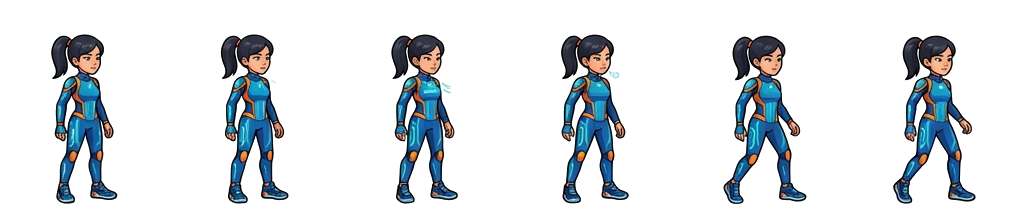
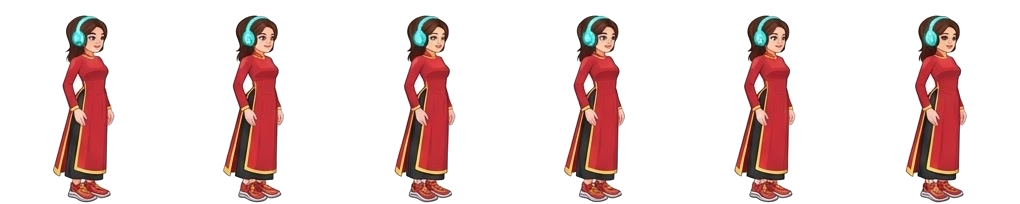
feat: update hanoi mascot

diff --git a/scripts/split_hanoi_mascot.py b/scripts/split_hanoi_mascot.py
@@ -1,0 +1,102 @@
+import os
+from PIL import Image
+
+def split_hanoi_mascot_for_gender(gender):
+    if gender == 'male':
+        input_path = "public/assets/images/hanoi/mascot/mascot_sheet.png"
+    else:
+        input_path = "public/assets/images/hanoi/mascot/mascot_sheet_female.png"
+        
+    if not os.path.exists(input_path):
+        print(f"Error: Input file {input_path} not found.")
+        return False
+        
+    img = Image.open(input_path).convert('RGBA')
+    img_w, img_h = img.size
+    
+    # Grid parameters
+    frame_w = 170
+    frame_h = 204
+    cols = 6
+    rows = 5
+    
+    # We want to map each row of the grid to the corresponding action file
+    actions = ['stand', 'run', 'slip', 'fly', 'beaten']
+    
+    # Background color to make transparent: (254, 254, 254)
+    # We use floodfill starting from the boundaries of each frame cell
+    def remove_bg(cell):
+        w, h = cell.size
+        pixels = cell.load()
+        visited = set()
+        queue = []
+        
+        # Add boundary pixels
+        for x in range(w):
+            queue.append((x, 0))
+            queue.append((x, h - 1))
+        for y in range(h):
+            queue.append((0, y))
+            queue.append((w - 1, y))
+            
+        bg_color = (254, 254, 254)
+        threshold = 30.0
+        
+        while queue:
+            x, y = queue.pop(0)
+            if (x, y) in visited:
+                continue
+            visited.add((x, y))
+            
+            curr = pixels[x, y]
+            # Calculate distance to background color
+            dist = sum((a - b) ** 2 for a, b in zip(curr[:3], bg_color)) ** 0.5
+            if dist < threshold:
+                # Set transparent
+                pixels[x, y] = (0, 0, 0, 0)
+                # Neighbors
+                for dx, dy in [(-1,0), (1,0), (0,-1), (0,1)]:
+                    nx, ny = x + dx, y + dy
+                    if 0 <= nx < w and 0 <= ny < h:
+                        if (nx, ny) not in visited:
+                            queue.append((nx, ny))
+        return cell
+
+    for row_idx, action in enumerate(actions):
+        # Create a new sheet for this action: 6 frames of 170x204 = 1020x204
+        action_sheet = Image.new('RGBA', (frame_w * cols, frame_h), (0, 0, 0, 0))
+        
+        for col_idx in range(cols):
+            # If action is 'fly', we only have 2 source frames, so tile them: 0, 1, 0, 1, 0, 1
+            src_col_idx = col_idx
+            if action == 'fly':
+                src_col_idx = col_idx % 2
+
+            # Check if this cell is inactive (empty in the sheet)
+            is_empty = False
+            if action == 'slip' and col_idx >= 4:
+                is_empty = True
+                
+            if is_empty:
+                cell_transparent = Image.new('RGBA', (frame_w, frame_h), (0, 0, 0, 0))
+            else:
+                x0 = src_col_idx * frame_w
+                y0 = row_idx * frame_h
+                x1 = x0 + frame_w
+                y1 = y0 + frame_h
+                
+                cell = img.crop((x0, y0, x1, y1))
+                cell_transparent = remove_bg(cell)
+            
+            # Paste into action sheet
+            action_sheet.paste(cell_transparent, (col_idx * frame_w, 0))
+            
+        out_path = f"public/assets/characters/player_{gender}_{action}.png"
+        action_sheet.save(out_path)
+        print(f"Saved {gender} {action}: {out_path}")
+        
+    return True
+
+if __name__ == "__main__":
+    split_hanoi_mascot_for_gender('male')
+    split_hanoi_mascot_for_gender('female')
